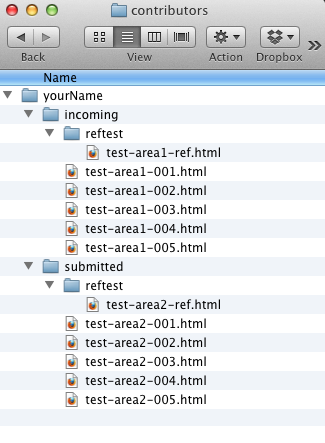
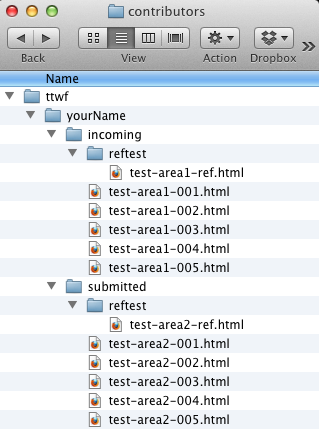
added ttwf to the directory structure slide

Changed region(s): [[0.0, 0.0, 1.0, 0.9772], [0.9875, 0.0, 1.0, 0.0296]]

diff --git a/presentations/test-the-web-forward-preso/index.html b/presentations/test-the-web-forward-preso/index.html
@@ -61,10 +61,13 @@
     				        <ul>
     				            <li>contributors</li>
 						        <ul>
-						            <li>yourTestDir</li>
+						            <li>ttwf</li>
 						            <ul>
-						                <li>incoming</li>
-    						            <li>submitted</li>
+						                <li>yourName</li>
+						                <ul>
+						                    <li>incoming</li>
+    						                <li>submitted</li>
+						                </ul>
 						            </ul>
 						        </ul>
 						    </ul>
